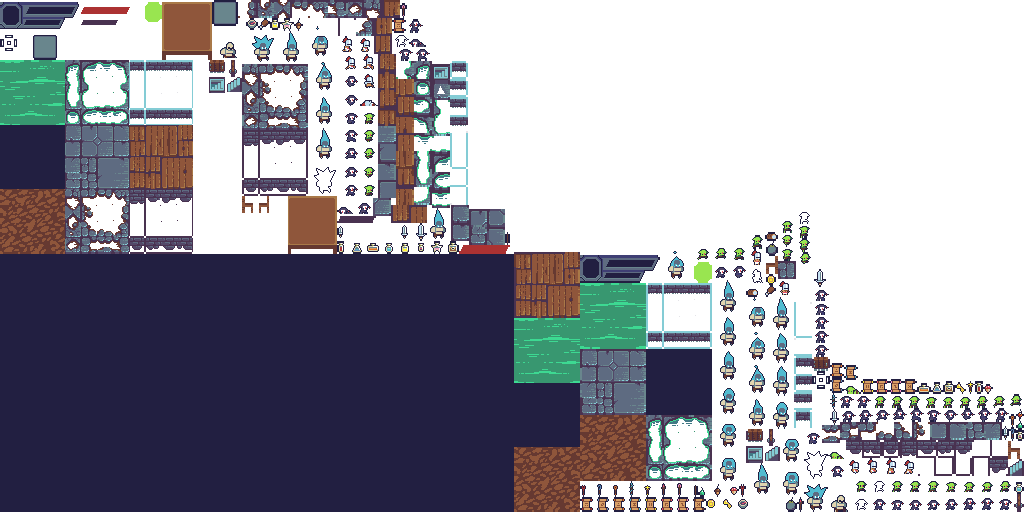
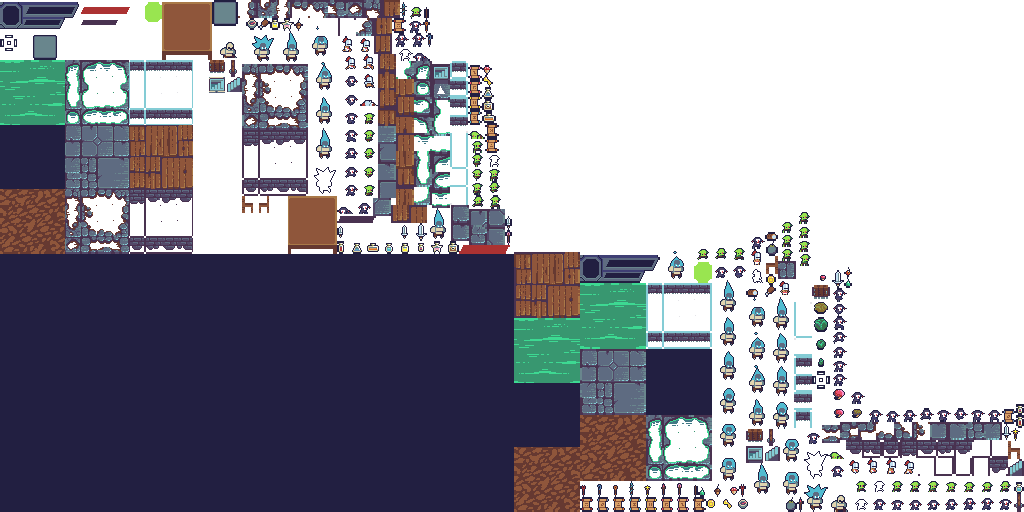
Cabbage!

diff --git a/core/src/org/rexellentgames/dungeon/entity/plant/Plant.java b/core/src/org/rexellentgames/dungeon/entity/plant/Plant.java
@@ -1,16 +1,16 @@
 package org.rexellentgames.dungeon.entity.plant;
 
-import com.badlogic.gdx.graphics.g2d.TextureRegion;
+
 import com.badlogic.gdx.physics.box2d.Body;
 import com.badlogic.gdx.physics.box2d.BodyDef;
 import org.rexellentgames.dungeon.Dungeon;
-import org.rexellentgames.dungeon.assets.Graphics;
 import org.rexellentgames.dungeon.entity.Entity;
 import org.rexellentgames.dungeon.entity.item.Item;
 import org.rexellentgames.dungeon.entity.item.ItemHolder;
 import org.rexellentgames.dungeon.entity.item.weapon.Weapon;
 import org.rexellentgames.dungeon.entity.level.SaveableEntity;
 import org.rexellentgames.dungeon.entity.level.Terrain;
+import org.rexellentgames.dungeon.util.AnimationData;
 import org.rexellentgames.dungeon.util.Random;
 import org.rexellentgames.dungeon.util.file.FileReader;
 import org.rexellentgames.dungeon.util.file.FileWriter;
@@ -19,11 +19,10 @@ import java.io.IOException;
 import java.util.ArrayList;
 
 public class Plant extends SaveableEntity {
-	protected String sprite;
 	protected float growSpeed = 1f;
 	protected float growProgress;
 	protected Body body;
-	protected TextureRegion region;
+	protected AnimationData animation;
 
 	@Override
 	public void init() {
@@ -31,7 +30,6 @@ public class Plant extends SaveableEntity {
 
 		this.body = this.createBody(3, 3, 10, 10, BodyDef.BodyType.DynamicBody, true);
 		this.body.setTransform(this.x, this.y - 4, 0);
-		this.region = Graphics.getTexture(this.sprite);
 	}
 
 	@Override
@@ -50,9 +48,7 @@ public class Plant extends SaveableEntity {
 
 	@Override
 	public void render() {
-		// todo: grow states
-		// old code: sprite + (int) Math.floor(this.growProgress * 2)
-		Graphics.render(this.region, this.x, this.y - 4);
+		this.animation.render(this.x, this.y - 4, false, (int) Math.floor(this.growProgress * 2));
 	}
 
 	@Override
@@ -75,12 +71,12 @@ public class Plant extends SaveableEntity {
 
 		if (entity instanceof Weapon && this.growProgress == 1f) {
 			this.done = true;
-			Dungeon.level.set((int) this.x / 16, (int) this.y / 16, Terrain.DIRT);
+			Dungeon.level.set((int) this.x / 16, (int) (this.y + 8) / 16, Terrain.DIRT);
 		}
 	}
 
 	public ArrayList<Item> getDrops() {
-		return new ArrayList<Item>();
+		return new ArrayList<>();
 	}
 
 	@Override

diff --git a/core/src/org/rexellentgames/dungeon/entity/level/Terrain.java b/core/src/org/rexellentgames/dungeon/entity/level/Terrain.java
@@ -13,8 +13,11 @@ public class Terrain {
 	public static byte WALL = 5;
 	public static byte WOOD = 6;
 	public static byte SPIKES = 7;
+	public static byte PLANTED_DIRT = 8;
 
-	public static int[] flags = new int[8];
+	public static byte SIZE = 9;
+
+	public static int[] flags = new int[SIZE];
 
 	public static int PASSABLE = 0x1;
 	public static int SOLID = 0x2;
@@ -24,6 +27,7 @@ public class Terrain {
 	static {
 		flags[CHASM] = HOLE;
 		flags[DIRT] = PASSABLE;
+		flags[PLANTED_DIRT] = PASSABLE;
 		flags[FLOOR] = PASSABLE;
 		flags[WALL] = SOLID | HIGH;
 		flags[WATER] = PASSABLE;
@@ -35,7 +39,7 @@ public class Terrain {
 	public static TextureRegion dirtPattern;
 	public static TextureRegion waterPattern;
 	public static TextureRegion wallPattern;
-	public static TextureRegion[] patterns = new TextureRegion[8];
+	public static TextureRegion[] patterns = new TextureRegion[SIZE];
 
 	public static TextureRegion[] dirtVariants = new TextureRegion[15];
 	public static TextureRegion[] waterVariants = new TextureRegion[15];
@@ -44,7 +48,7 @@ public class Terrain {
 	public static TextureRegion[] woodVariants = new TextureRegion[16];
 	public static TextureRegion[] floorVariants = new TextureRegion[16];
 
-	public static TextureRegion[][] variants = new TextureRegion[8][16];
+	public static TextureRegion[][] variants = new TextureRegion[SIZE][16];
 
 	public static TextureRegion exit;
 	public static TextureRegion entrance;
@@ -73,6 +77,7 @@ public class Terrain {
 		openDoor = Graphics.getTexture(bm + " (door NS)");
 
 		patterns[DIRT] = dirtPattern;
+		patterns[PLANTED_DIRT] = dirtPattern;
 		patterns[WATER] = waterPattern;
 		patterns[WALL] = wallPattern;
 
@@ -101,6 +106,7 @@ public class Terrain {
 		}
 
 		variants[DIRT] = dirtVariants;
+		variants[PLANTED_DIRT] = dirtVariants;
 		variants[CHASM] = chasmVariants;
 		variants[WATER] = waterVariants;
 		variants[WALL] = wallVariants;

diff --git a/core/src/org/rexellentgames/dungeon/util/Animation.java b/core/src/org/rexellentgames/dungeon/util/Animation.java
@@ -14,6 +14,10 @@ public class Animation {
 	private HashMap<String, ArrayList<Frame>> frames = new HashMap<>();
 
 	public Animation(String file) {
+		this(file, "");
+	}
+
+	public Animation(String file, String add) {
 		JsonReader reader = new JsonReader();
 		JsonValue root = reader.parse(Gdx.files.internal("sprites_split/" + file + ".json"));
 
@@ -41,7 +45,7 @@ public class Animation {
 				name = name.replace(' ', '-');
 
 				name = name.substring(0, name.length() - (Character.isDigit(name.charAt(name.length() - 2)) ? 3 : 2));
-				name += "-" + state + "-" + String.format("%02d", i - from);
+				name += add + "-" + state + "-" + String.format("%02d", i - from);
 
 				framesList.add(new Frame(Graphics.getTexture(name), delay * 0.001f));
 			}
@@ -55,6 +59,14 @@ public class Animation {
 			return null;
 		} else {
 			return new Animation(file);
+		}
+	}
+
+	public static Animation make(String file, String add) {
+		if (Network.SERVER) {
+			return null;
+		} else {
+			return new Animation(file, add);
 		}
 	}
 

diff --git a/core/src/org/rexellentgames/dungeon/util/AnimationData.java b/core/src/org/rexellentgames/dungeon/util/AnimationData.java
@@ -5,13 +5,13 @@ import org.rexellentgames.dungeon.assets.Graphics;
 import java.util.ArrayList;
 
 public class AnimationData {
-	private ArrayList<Animation.Frame> frames = new ArrayList<>();
+	private final ArrayList<Animation.Frame> frames;
 	private float t;
 	private int index;
 	private Animation.Frame current;
 
 	public AnimationData(ArrayList<Animation.Frame> frames) {
-		this.frames.addAll(frames);
+		this.frames = frames;
 		this.current = this.frames.get(0);
 	}
 
@@ -32,6 +32,11 @@ public class AnimationData {
 
 	public void render(float x, float y, boolean flip) {
 		Graphics.render(this.current.frame, x, y, 0, 0, 0, flip, false);
+		Graphics.batch.setColor(1, 1, 1, 1);
+	}
+
+	public void render(float x, float y, boolean flip, int f) {
+		Graphics.render(this.frames.get(f).frame, x, y, 0, 0, 0, flip, false);
 		Graphics.batch.setColor(1, 1, 1, 1);
 	}
 }

diff --git a/core/src/org/rexellentgames/dungeon/entity/plant/Cabbage.java b/core/src/org/rexellentgames/dungeon/entity/plant/Cabbage.java
@@ -2,13 +2,16 @@ package org.rexellentgames.dungeon.entity.plant;
 
 import org.rexellentgames.dungeon.entity.item.Item;
 import org.rexellentgames.dungeon.entity.item.consumable.seed.CabbageSeed;
+import org.rexellentgames.dungeon.util.Animation;
 import org.rexellentgames.dungeon.util.Random;
 
 import java.util.ArrayList;
 
 public class Cabbage extends Plant {
+	private static Animation animations = Animation.make("veggie", "-cabbage");
+
 	{
-		sprite = "item (food A)"; // todo: replace
+		animation = animations.get("growth");
 	}
 
 	@Override

diff --git a/core/src/org/rexellentgames/dungeon/entity/item/consumable/seed/Seed.java b/core/src/org/rexellentgames/dungeon/entity/item/consumable/seed/Seed.java
@@ -70,11 +70,11 @@ public class Seed extends Consumable {
 
 			if (plant != null) {
 				plant.x = x * 16;
-				plant.y = y * 16 + 4;
+				plant.y = y * 16 - 4;
 
 				Dungeon.area.add(plant);
 				Dungeon.level.addSaveable(plant);
-				// Dungeon.level.set(x, y, Terrain.PLANTED_DIRT);
+				Dungeon.level.set(x, y, Terrain.PLANTED_DIRT);
 
 				this.count -= 1;
 			}

diff --git a/core/src/org/rexellentgames/dungeon/entity/item/consumable/plant/Plant.java b/core/src/org/rexellentgames/dungeon/entity/item/consumable/plant/Plant.java
@@ -15,7 +15,7 @@ public class Plant extends Item {
 		if (this.added != 0) {
 			float angle = (flipped ? this.added : -this.added);
 
-			Graphics.render(this.getSprite(), x + (flipped ? -3 : 3), y - 4, angle, 8, 10, false,
+			Graphics.render(this.getSprite(), x + (flipped ? -w / 4 : w / 4) + w / 2, y + h / 3, angle, 8, 10, false,
 				false);
 		}
 	}

diff --git a/core/src/org/rexellentgames/dungeon/game/Area.java b/core/src/org/rexellentgames/dungeon/game/Area.java
@@ -104,8 +104,8 @@ public class Area {
 	}
 
 	public void destroy() {
-		for (Entity entity : this.entities) {
-			entity.destroy();
+		for (int i = this.entities.size() - 1; i >= 0; i--) {
+			this.entities.get(i).destroy();
 		}
 
 		this.entities.clear();

diff --git a/core/src/org/rexellentgames/dungeon/entity/item/consumable/plant/Cabbage.java b/core/src/org/rexellentgames/dungeon/entity/item/consumable/plant/Cabbage.java
@@ -9,7 +9,7 @@ public class Cabbage extends Plant {
 	{
 		name = "Cabbage";
 		description = "Tastes good, probably will sell good too.";
-		sprite = "item (food B)"; // todo: fix the sprite
+		sprite = "veggie-cabbage-growth-02";
 		useTime = 10f;
 	}
 
